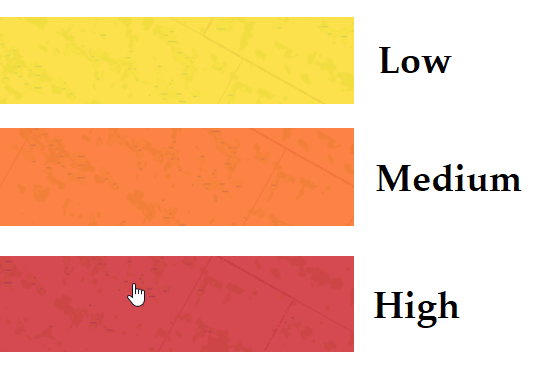
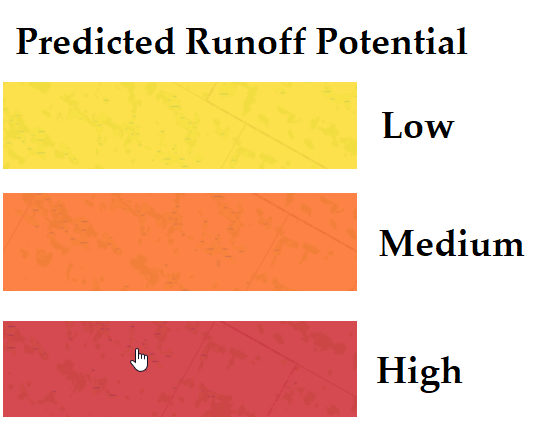
added title to legend

diff --git a/index.html b/index.html
@@ -234,7 +234,7 @@ legend.addTo(mymap);
 		
 		</script>
 
-<img src="https://hmcgrath.github.io/legend/Legend.png" alt="legend">
+<img src="https://hmcgrath.github.io/legend/Legend.png" alt="legend" width="150" height="100">
 
 </body>
 
